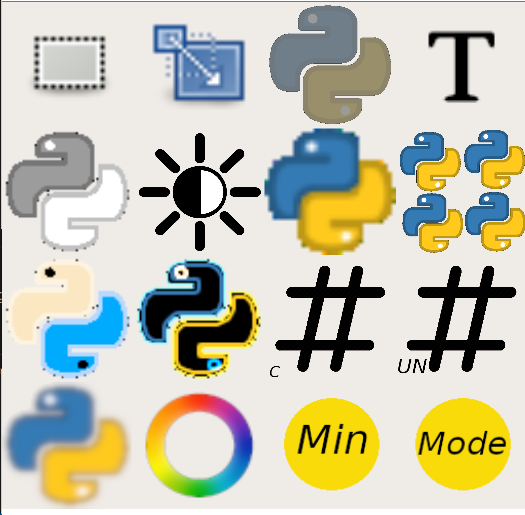
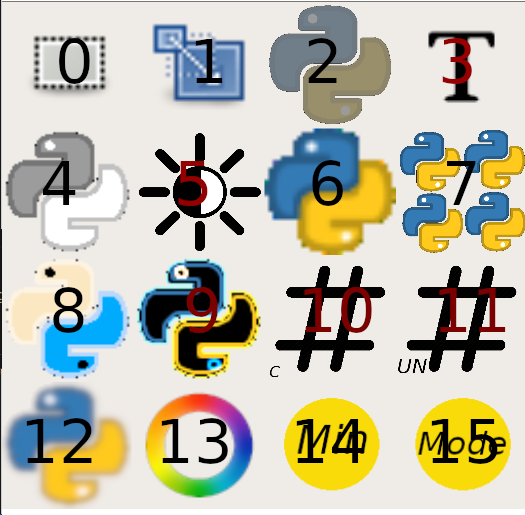
Zavrsne Promene

diff --git a/ipc.py b/ipc.py
@@ -39,9 +39,10 @@ class TutorialPopup(Popup):
     
     ck_box = ObjectProperty(None)
     lbl1 = ObjectProperty(None)
+    lbl2 = ObjectProperty(None)
     icons_img = ObjectProperty(None)
     no_tip = 0
-    max_tips = 4
+    max_tips = 6
 
     def close_popup(self):
         if self.ck_box.active:
@@ -51,6 +52,12 @@ class TutorialPopup(Popup):
                     f.close()
             except IOError:
                 print("Warning:Greska pri upisu u config fajl!")
+        else:
+            try:
+                with open("config.txt","w") as f:
+                    f.write("1")
+            except IOError:
+                print("Warning:Greska pri unosu u config fajl!")
         self.dismiss()
 
     def show_next_tip(self):
@@ -66,29 +73,51 @@ class TutorialPopup(Popup):
 
         if self.no_tip == 1:
             self.lbl1.text = ""
-            self.icons_img.pos_hint = {"y":0.25,"x":0.25}
-            self.icons_img.size_hint = 0.5,0.5
+            self.icons_img.pos_hint = {"y":0.15,"x":0.15}
+            self.icons_img.size_hint = 0.7,0.7
             self.icons_img.source = "./assets/Tutorial.png"
 
         if self.no_tip == 2:
             self.icons_img.size_hint = 0,0
             self.lbl1.text = ("0 - Area Selection\n"
-                            "1 - Calibration Tool - Must use if image is not 16:9 ration,Use Mouse Click\non lower left side of the picture and release on upper rigth to Calibrate area selection tool\n"
-                            "2 - \n"
+                            "1 - Calibration Tool - Must use if image is not 16:9 ration,Use Mouse Click on lower left\nside of the picture and release on upper rigth to Calibrate area selection tool\n"
+                            "2 - Adjust Contrast\n"
                             "3 - Text Tool - Select the Area before using. After clicking type your text\ndon't worry if it doesn't show up immediately, pressing enter will print it!\n"
-                            "4 - Greyscaling the Image\n"
+                            "4 - Adjust Color Warmness\n"
                             "5 - Brightness Level\n"
                             "6 - Pixelating Image\n"
                             "7 - Making mini duplicates of the first image put together in a matrix\n")
         if self.no_tip == 3:
+            self.lbl2.text = "Welcome to our project!"
             self.lbl1.text = ("8 - Finds Image Contours\n"
                             "9 - Finds Image Edges\n"
                             "10 - Sharpens the Image\n"
-                            "11 - Smoothens the Image\n"
+                            "11 - UNSharpens the Image!\n"
                             "12 - Blurns the Image\n"
-                            "13 - UNSharpens the Image!\n"
+                            "13 - Color Grading - WARNING: Will take a LOT time to finish!\n"
                             "14 - Creates a min filter. Picks the lowest pixel value in a window with the given size\n"
-                            "15 - Creates a mode filter. Picks the most frequent pixel value in a box with the given size\n")
+                            "15 - Creates a mode filter. Picks the most frequent pixel value in a box with\nthe given size\n")
+        if self.no_tip == 4:
+            self.lbl2.text = "Sliders use and Slider Range:"
+            self.lbl1.text = ("Don't worry about exact range, you won't crash the program\n"
+                            "....Probably\n"
+                            "Area Selection: None\n"
+                            "Calibration Tool: None\n"
+                            "Contrast: First 0 - 30, 10 - Unchanged\n"
+                            "Text Tool: First 0 - 172\n"
+                            "Color Warmness: First 0-30, 10 - Unchanged\n"
+                            "Brightness: First 0 - 20, 10 - Unchanged\n"
+                            "Pixelate: First: 1 - 500\n"
+                            "Image Matrix: First Second - N x M\n")
+        if self.no_tip == 5:
+            self.lbl1.text = ("Contours: None\n"
+                            "Edges: None\n"
+                            "Sharpen: None\n"
+                            "Unsharpen: Radius Percent Threshold 1-30 0-500 0-15\n"
+                            "Blur: First 0-20\n"
+                            "Color Grading: First 0-20\n"
+                            "Min: First 0-20\n"
+                            "Mode: First 0-20\n")
 
     def show_previous_tip(self):
 
@@ -102,6 +131,8 @@ class CustomPopup(Popup):
 
     fc = ObjectProperty(None)
     txt_input = ObjectProperty(None)
+    img_w = ObjectProperty(None)
+    img_h = ObjectProperty(None)
 
     def update_text_input(self):
         for i in self.fc.selection:
@@ -147,6 +178,7 @@ class CustomPopup(Popup):
             ext=ext.upper()
             if ext=='BMP' or ext=='JPEG' or ext=='PNG':
                 image=im.convert('RGB')
+                image=im.resize((int(self.img_w.text),int(self.img_h.text)))
                 image.save(url,ext)
         except ValueError:
             print('ValueError')
@@ -317,6 +349,8 @@ class IPC(FloatLayout):
 
     def open_file(self):
         popup = CustomPopup()
+        width,height = im.size
+        popup.img_w.text,popup.img_h.text = str(width),str(height)
         popup.open()
 
     def save_temp_image(self):
@@ -334,6 +368,10 @@ class IPC(FloatLayout):
             print('ValueError')
         except IOError:
             print('IOError')
+
+    def open_help(self):
+        popup = TutorialPopup()
+        popup.open()
 
     def activate_selection_tool(self):
         self.active_tool=self.selection_tool
@@ -494,6 +532,10 @@ class IPC(FloatLayout):
     def make_grid(self):
         global im
         self.make_backup()
+        self.slider1.text="N: "
+        self.slider2.text="M: "
+        self.slider1.max = 20
+        self.slider2.max = 20
         width,height=im.size
         im=io.generateGridFromImage(im,math.floor(self.slider1.value),math.floor(self.slider2.value),width,height)
         self.save_temp_image()
@@ -504,6 +546,7 @@ class IPC(FloatLayout):
         self.area_start[0],self.area_end[0] = min (self.area_start[0],self.area_end[0]), max(self.area_start[0],self.area_end[0])
         self.area_start[1],self.area_end[1] = min (self.area_start[1],self.area_end[1]), max(self.area_start[1],self.area_end[1])
         self.slider1.max = 30
+        self.slider1.text="Strength: "
         param = self.slider1.value/10
         if self.P() < 50:
              im=io.applyOperationOnRegion(io.imageColor,im,(0,0,im.width,im.height),param)
@@ -517,6 +560,7 @@ class IPC(FloatLayout):
         self.area_start[0],self.area_end[0] = min (self.area_start[0],self.area_end[0]), max(self.area_start[0],self.area_end[0])
         self.area_start[1],self.area_end[1] = min (self.area_start[1],self.area_end[1]), max(self.area_start[1],self.area_end[1])
         self.slider1.max = 30
+        self.slider1.text="Strength: "
         param = self.slider1.value/10
         if self.P() < 50:
              im=io.applyOperationOnRegion(io.imageContrast,im,(0,0,im.width,im.height),param)
@@ -529,6 +573,7 @@ class IPC(FloatLayout):
         global im
         self.make_backup()
         self.slider1.max = 20
+        self.slider1.text = "Strength: "
         if self.slider1.value <= 10:
             strength = self.slider1.value/100
         else:
